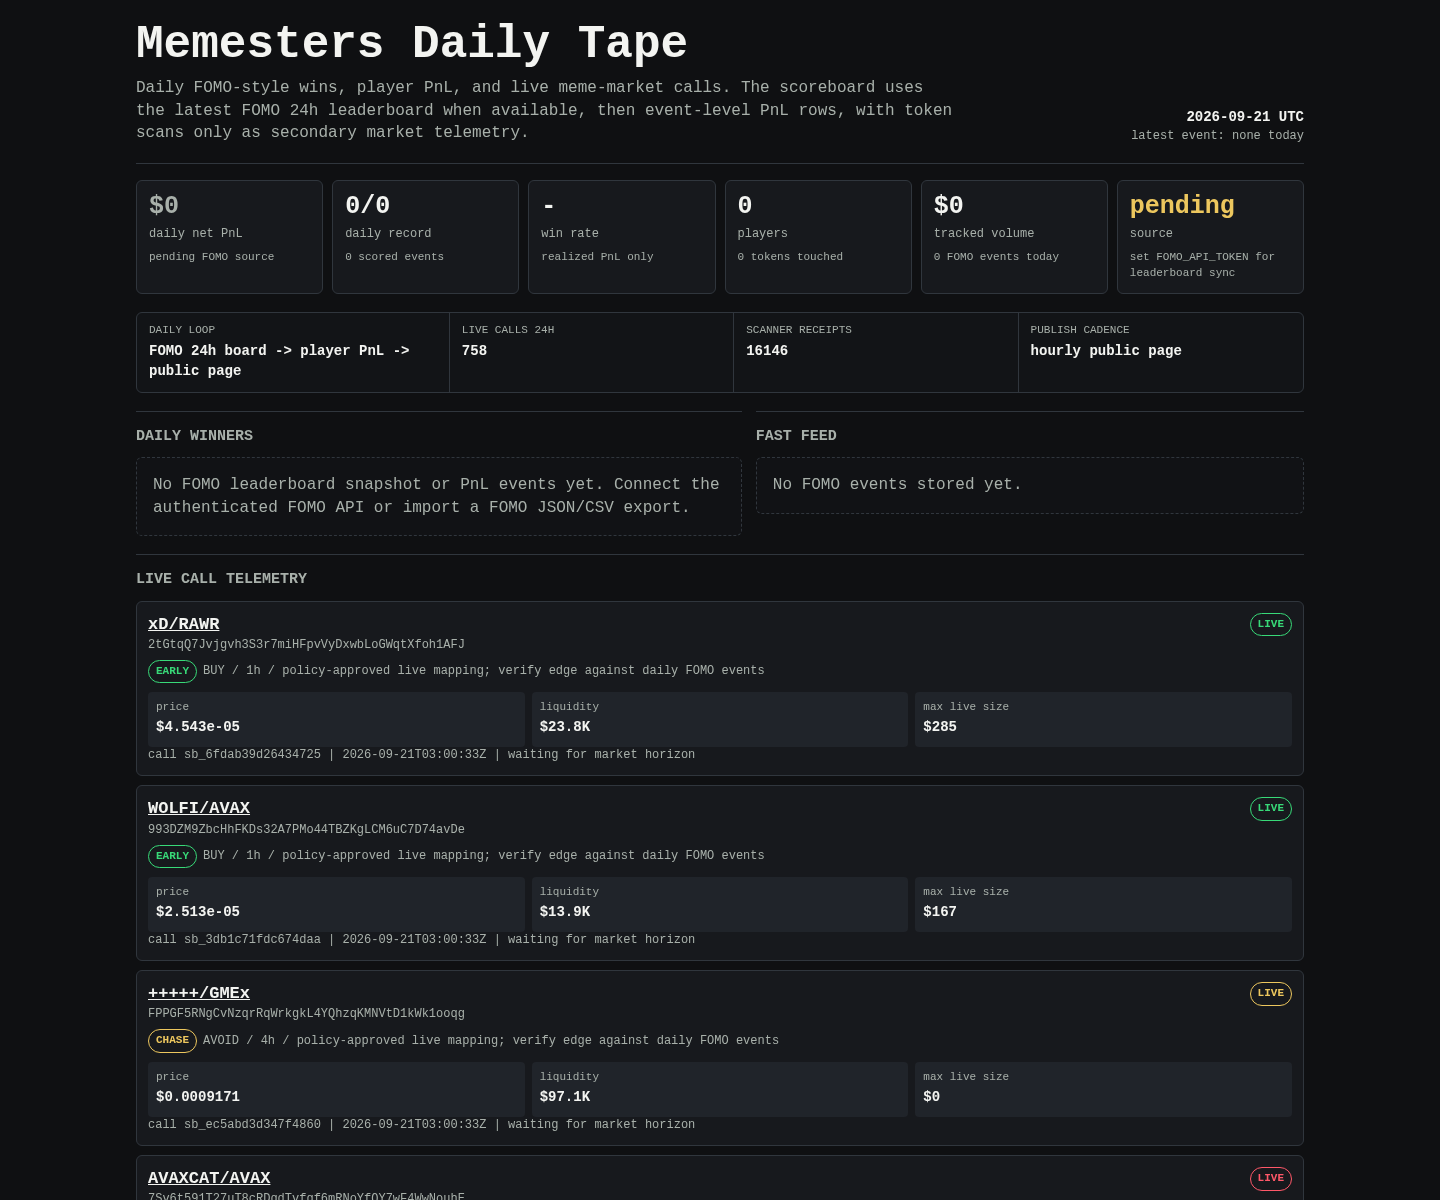
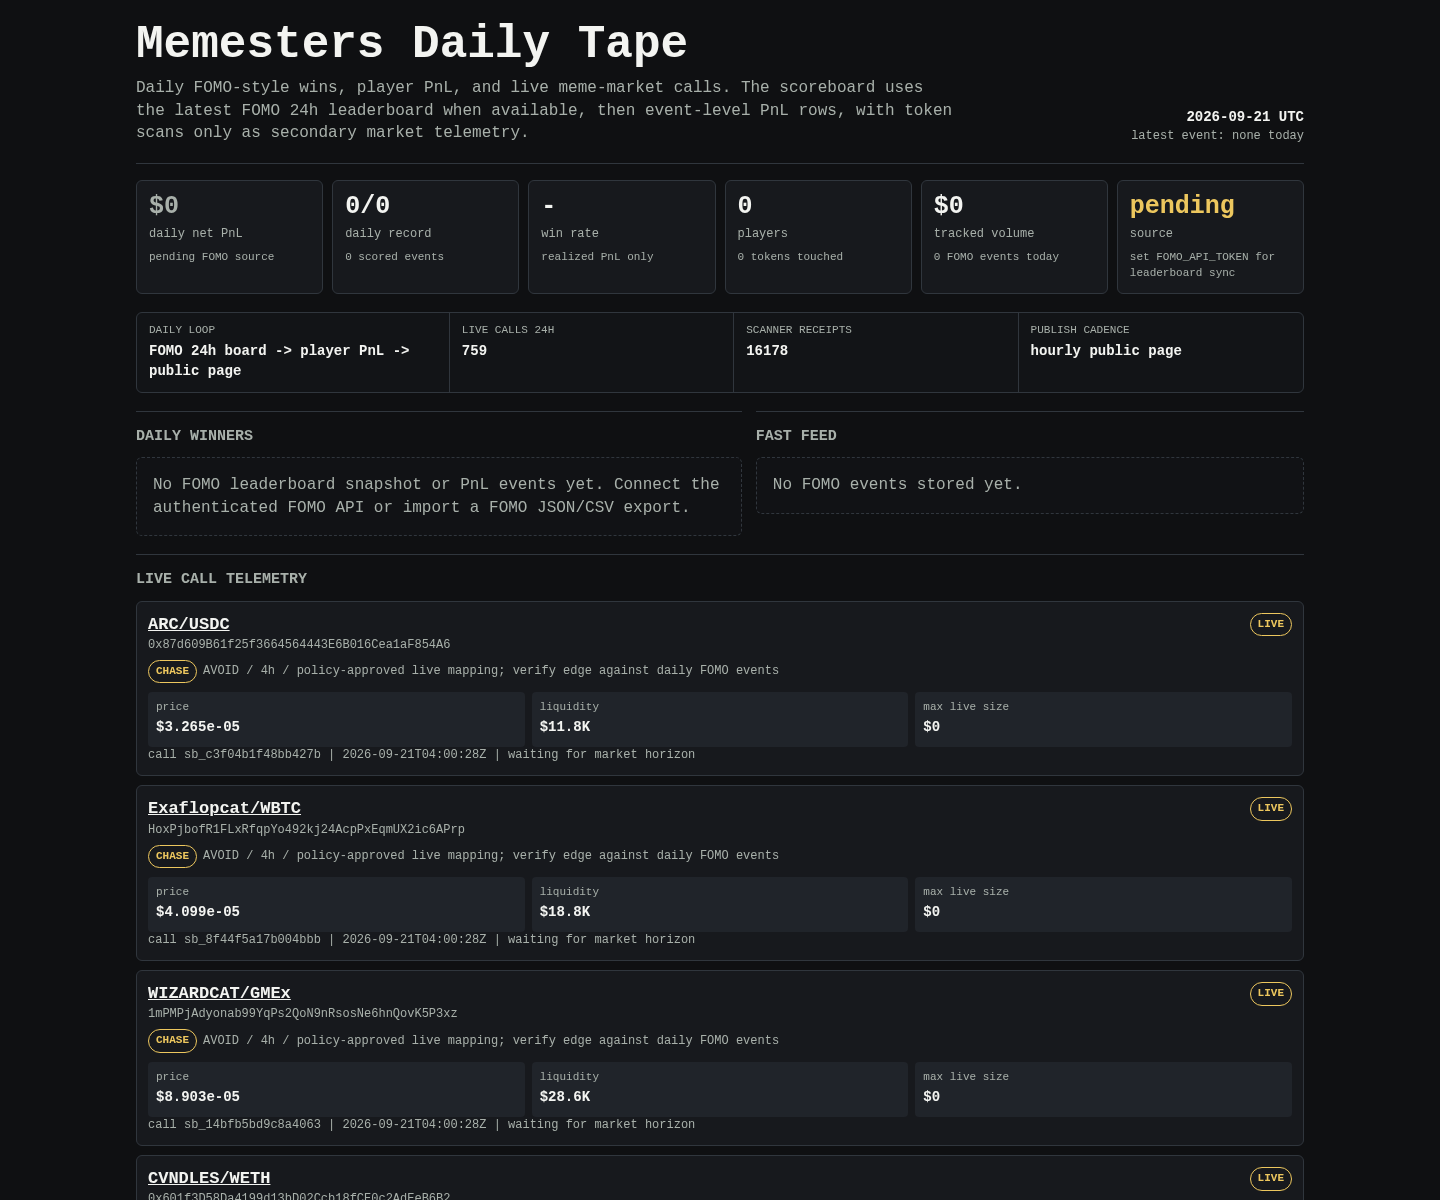
Update Memesters scoreboard

diff --git a/memesters/index.html b/memesters/index.html
@@ -149,8 +149,8 @@
 
     <div class="rail" aria-label="live operating loop">
       <div><span>daily loop</span><b>FOMO 24h board -> player PnL -> public page</b></div>
-      <div><span>live calls 24h</span><b>758</b></div>
-      <div><span>scanner receipts</span><b>16146</b></div>
+      <div><span>live calls 24h</span><b>759</b></div>
+      <div><span>scanner receipts</span><b>16178</b></div>
       <div><span>publish cadence</span><b>hourly public page</b></div>
     </div>
 
@@ -171,50 +171,8 @@
     <article class="receipt">
       <div class="receipt-head">
         <div>
-          <div class="pair"><a href="https://dexscreener.com/solana/hzhxogxxt3ny5hrhp38ryphc4xfnjvwv3mfppnsw6btv">xD/RAWR</a></div>
-          <div class="addr">2tGtqQ7Jvjgvh3S3r7miHFpvVyDxwbLoGWqtXfoh1AFJ</div>
-          <div class="addr policy-line">
-            <span class="badge early">EARLY</span>
-            <span>BUY / 1h / policy-approved live mapping; verify edge against daily FOMO events</span>
-          </div>
-        </div>
-        <span class="badge early">LIVE</span>
-      </div>
-      <div class="receipt-grid">
-        <div class="kv"><span>price</span><b>$4.543e-05</b></div>
-        <div class="kv"><span>liquidity</span><b>$23.8K</b></div>
-        <div class="kv"><span>max live size</span><b>$285</b></div>
-      </div>
-      <div class="outcomes">call sb_6fdab39d26434725 | 2026-09-21T03:00:33Z | waiting for market horizon</div>
-    </article>
-    
-
-    <article class="receipt">
-      <div class="receipt-head">
-        <div>
-          <div class="pair"><a href="https://dexscreener.com/solana/gybzzgzbyx9izhgx6gni3tftiyx4zvuh33edbbnkwzpk">WOLFI/AVAX</a></div>
-          <div class="addr">993DZM9ZbcHhFKDs32A7PMo44TBZKgLCM6uC7D74avDe</div>
-          <div class="addr policy-line">
-            <span class="badge early">EARLY</span>
-            <span>BUY / 1h / policy-approved live mapping; verify edge against daily FOMO events</span>
-          </div>
-        </div>
-        <span class="badge early">LIVE</span>
-      </div>
-      <div class="receipt-grid">
-        <div class="kv"><span>price</span><b>$2.513e-05</b></div>
-        <div class="kv"><span>liquidity</span><b>$13.9K</b></div>
-        <div class="kv"><span>max live size</span><b>$167</b></div>
-      </div>
-      <div class="outcomes">call sb_3db1c71fdc674daa | 2026-09-21T03:00:33Z | waiting for market horizon</div>
-    </article>
-    
-
-    <article class="receipt">
-      <div class="receipt-head">
-        <div>
-          <div class="pair"><a href="https://dexscreener.com/solana/cd2kmeqr7oqwzixmf1ajuevb8sew2x2ctt2s2gkf63zv">+++++/GMEx</a></div>
-          <div class="addr">FPPGF5RNgCvNzqrRqWrkgkL4YQhzqKMNVtD1kWk1ooqg</div>
+          <div class="pair"><a href="https://dexscreener.com/arc/0xdb7321af9cdcf06fc9d9771b3d446c3c7f46e462">ARC/USDC</a></div>
+          <div class="addr">0x87d609B61f25f3664564443E6B016Cea1aF854A6</div>
           <div class="addr policy-line">
             <span class="badge chase">CHASE</span>
             <span>AVOID / 4h / policy-approved live mapping; verify edge against daily FOMO events</span>
@@ -223,19 +181,145 @@
         <span class="badge chase">LIVE</span>
       </div>
       <div class="receipt-grid">
-        <div class="kv"><span>price</span><b>$0.0009171</b></div>
-        <div class="kv"><span>liquidity</span><b>$97.1K</b></div>
+        <div class="kv"><span>price</span><b>$3.265e-05</b></div>
+        <div class="kv"><span>liquidity</span><b>$11.8K</b></div>
         <div class="kv"><span>max live size</span><b>$0</b></div>
       </div>
-      <div class="outcomes">call sb_ec5abd3d347f4860 | 2026-09-21T03:00:33Z | waiting for market horizon</div>
+      <div class="outcomes">call sb_c3f04b1f48bb427b | 2026-09-21T04:00:28Z | waiting for market horizon</div>
     </article>
     
 
     <article class="receipt">
       <div class="receipt-head">
         <div>
-          <div class="pair"><a href="https://dexscreener.com/solana/cyvqyivxfp9wwrcb9lx5ne2bt7nek9tstajmwenvkr3x">AVAXCAT/AVAX</a></div>
-          <div class="addr">7Sv6t591T27uT8cRDqdTvfgf6mRNoYfQY7wF4WwNouhE</div>
+          <div class="pair"><a href="https://dexscreener.com/solana/3x783phswegmzbmztfhghian4eggmj4hacnylnmxutzj">Exaflopcat/WBTC</a></div>
+          <div class="addr">HoxPjbofR1FLxRfqpYo492kj24AcpPxEqmUX2ic6APrp</div>
+          <div class="addr policy-line">
+            <span class="badge chase">CHASE</span>
+            <span>AVOID / 4h / policy-approved live mapping; verify edge against daily FOMO events</span>
+          </div>
+        </div>
+        <span class="badge chase">LIVE</span>
+      </div>
+      <div class="receipt-grid">
+        <div class="kv"><span>price</span><b>$4.099e-05</b></div>
+        <div class="kv"><span>liquidity</span><b>$18.8K</b></div>
+        <div class="kv"><span>max live size</span><b>$0</b></div>
+      </div>
+      <div class="outcomes">call sb_8f44f5a17b004bbb | 2026-09-21T04:00:28Z | waiting for market horizon</div>
+    </article>
+    
+
+    <article class="receipt">
+      <div class="receipt-head">
+        <div>
+          <div class="pair"><a href="https://dexscreener.com/solana/gwppwkcur41oornbvqenzkpcvg4htuuhft5rndsfyhhd">WIZARDCAT/GMEx</a></div>
+          <div class="addr">1mPMPjAdyonab99YqPs2QoN9nRsosNe6hnQovK5P3xz</div>
+          <div class="addr policy-line">
+            <span class="badge chase">CHASE</span>
+            <span>AVOID / 4h / policy-approved live mapping; verify edge against daily FOMO events</span>
+          </div>
+        </div>
+        <span class="badge chase">LIVE</span>
+      </div>
+      <div class="receipt-grid">
+        <div class="kv"><span>price</span><b>$8.903e-05</b></div>
+        <div class="kv"><span>liquidity</span><b>$28.6K</b></div>
+        <div class="kv"><span>max live size</span><b>$0</b></div>
+      </div>
+      <div class="outcomes">call sb_14bfb5bd9c8a4063 | 2026-09-21T04:00:28Z | waiting for market horizon</div>
+    </article>
+    
+
+    <article class="receipt">
+      <div class="receipt-head">
+        <div>
+          <div class="pair"><a href="https://dexscreener.com/robinhood/0x7595a909646c4831dc2198ad701218817e497b5a">CVNDLES/WETH</a></div>
+          <div class="addr">0x601f3D58Da4199d13bD02Ccb18fCE0c2AdEeB6B2</div>
+          <div class="addr policy-line">
+            <span class="badge chase">CHASE</span>
+            <span>AVOID / 4h / policy-approved live mapping; verify edge against daily FOMO events</span>
+          </div>
+        </div>
+        <span class="badge chase">LIVE</span>
+      </div>
+      <div class="receipt-grid">
+        <div class="kv"><span>price</span><b>$7.863e-06</b></div>
+        <div class="kv"><span>liquidity</span><b>$4.4K</b></div>
+        <div class="kv"><span>max live size</span><b>$0</b></div>
+      </div>
+      <div class="outcomes">call sb_bef2317b7e32477b | 2026-09-21T04:00:28Z | waiting for market horizon</div>
+    </article>
+    
+
+    <article class="receipt">
+      <div class="receipt-head">
+        <div>
+          <div class="pair"><a href="https://dexscreener.com/bsc/0x4f620c3abbaf7a7c23170e2dadd3cb206a5f7345">MELT/WBNB</a></div>
+          <div class="addr">0xC6Da3C912DD09577e6609dC90a44CDc1a99c7777</div>
+          <div class="addr policy-line">
+            <span class="badge early">EARLY</span>
+            <span>BUY / 1h / policy-approved live mapping; verify edge against daily FOMO events</span>
+          </div>
+        </div>
+        <span class="badge early">LIVE</span>
+      </div>
+      <div class="receipt-grid">
+        <div class="kv"><span>price</span><b>$7.009e-06</b></div>
+        <div class="kv"><span>liquidity</span><b>$12.2K</b></div>
+        <div class="kv"><span>max live size</span><b>$77</b></div>
+      </div>
+      <div class="outcomes">call sb_a7b382b9b7cf4d6c | 2026-09-21T04:00:28Z | waiting for market horizon</div>
+    </article>
+    
+
+    <article class="receipt">
+      <div class="receipt-head">
+        <div>
+          <div class="pair"><a href="https://dexscreener.com/solana/bew6ordmhs55yspyr7rzn73qruamykp1sxl7unbqzguj">ZIRON/ZEC</a></div>
+          <div class="addr">B8WvjPmz1wJ9xPRKEkyWHFzPZoaqkKWCytgtFjhTpump</div>
+          <div class="addr policy-line">
+            <span class="badge chase">CHASE</span>
+            <span>AVOID / 4h / policy-approved live mapping; verify edge against daily FOMO events</span>
+          </div>
+        </div>
+        <span class="badge chase">LIVE</span>
+      </div>
+      <div class="receipt-grid">
+        <div class="kv"><span>price</span><b>$0.0002329</b></div>
+        <div class="kv"><span>liquidity</span><b>$52.0K</b></div>
+        <div class="kv"><span>max live size</span><b>$0</b></div>
+      </div>
+      <div class="outcomes">call sb_f0d06ec7684b4052 | 2026-09-21T04:00:28Z | waiting for market horizon</div>
+    </article>
+    
+
+    <article class="receipt">
+      <div class="receipt-head">
+        <div>
+          <div class="pair"><a href="https://dexscreener.com/robinhood/0x8411ea13a08bbe0dcaf65982bb65c70b8ef3911e8ea9cc6f6f084a6bc04d99d2">+++++/WETH</a></div>
+          <div class="addr">0x674fFB50DBa9eE1505FF319FC7817731cE79137C</div>
+          <div class="addr policy-line">
+            <span class="badge chase">CHASE</span>
+            <span>AVOID / 4h / policy-approved live mapping; verify edge against daily FOMO events</span>
+          </div>
+        </div>
+        <span class="badge chase">LIVE</span>
+      </div>
+      <div class="receipt-grid">
+        <div class="kv"><span>price</span><b>$1.533e-05</b></div>
+        <div class="kv"><span>liquidity</span><b>$14.1K</b></div>
+        <div class="kv"><span>max live size</span><b>$0</b></div>
+      </div>
+      <div class="outcomes">call sb_34480402b3a1429e | 2026-09-21T04:00:28Z | waiting for market horizon</div>
+    </article>
+    
+
+    <article class="receipt">
+      <div class="receipt-head">
+        <div>
+          <div class="pair"><a href="https://dexscreener.com/solana/7p2wrg1pb5wondr7c8asv6hjfe4jez7t7xtzkf79oe4o">Buck/GMEx</a></div>
+          <div class="addr">2SgRLprSBdkLrnRiqaCDw5avrRyYbrvZwyNbYgd3oAJm</div>
           <div class="addr policy-line">
             <span class="badge rug-risk">RUG RISK</span>
             <span>AVOID / 4h / policy-approved live mapping; verify edge against daily FOMO events</span>
@@ -244,103 +328,19 @@
         <span class="badge rug-risk">LIVE</span>
       </div>
       <div class="receipt-grid">
-        <div class="kv"><span>price</span><b>$3.372e-05</b></div>
-        <div class="kv"><span>liquidity</span><b>$15.9K</b></div>
+        <div class="kv"><span>price</span><b>$3.363e-05</b></div>
+        <div class="kv"><span>liquidity</span><b>$17.1K</b></div>
         <div class="kv"><span>max live size</span><b>$0</b></div>
       </div>
-      <div class="outcomes">call sb_e7ace377deaa454a | 2026-09-21T03:00:32Z | waiting for market horizon</div>
+      <div class="outcomes">call sb_659865620ca54152 | 2026-09-21T04:00:28Z | waiting for market horizon</div>
     </article>
     
 
     <article class="receipt">
       <div class="receipt-head">
         <div>
-          <div class="pair"><a href="https://dexscreener.com/robinhood/0x5a76c573afe9e546ccda3a24bc1b1a0129f8492cd3215ce3b30cc20c11f8236a">KVRA/WETH</a></div>
-          <div class="addr">0xD81057fDf94eD006339Ad33118b9c202c7E0B874</div>
-          <div class="addr policy-line">
-            <span class="badge chase">CHASE</span>
-            <span>AVOID / 4h / policy-approved live mapping; verify edge against daily FOMO events</span>
-          </div>
-        </div>
-        <span class="badge chase">LIVE</span>
-      </div>
-      <div class="receipt-grid">
-        <div class="kv"><span>price</span><b>$1.137e-06</b></div>
-        <div class="kv"><span>liquidity</span><b>$86.5K</b></div>
-        <div class="kv"><span>max live size</span><b>$0</b></div>
-      </div>
-      <div class="outcomes">call sb_25124792d18f4d10 | 2026-09-21T03:00:32Z | waiting for market horizon</div>
-    </article>
-    
-
-    <article class="receipt">
-      <div class="receipt-head">
-        <div>
-          <div class="pair"><a href="https://dexscreener.com/robinhood/0x71c3e919f41ea213af79b1cc187a468d14b94a69ef4ad91482b819d3b33b1ef8">SI/WETH</a></div>
-          <div class="addr">0xe5395Dc21Ea46B5E16209c4Deaba97E40f781f1C</div>
-          <div class="addr policy-line">
-            <span class="badge chase">CHASE</span>
-            <span>AVOID / 4h / policy-approved live mapping; verify edge against daily FOMO events</span>
-          </div>
-        </div>
-        <span class="badge chase">LIVE</span>
-      </div>
-      <div class="receipt-grid">
-        <div class="kv"><span>price</span><b>$3.145e-05</b></div>
-        <div class="kv"><span>liquidity</span><b>$23.7K</b></div>
-        <div class="kv"><span>max live size</span><b>$0</b></div>
-      </div>
-      <div class="outcomes">call sb_0f4d875bff614c21 | 2026-09-21T03:00:32Z | waiting for market horizon</div>
-    </article>
-    
-
-    <article class="receipt">
-      <div class="receipt-head">
-        <div>
-          <div class="pair"><a href="https://dexscreener.com/hyperevm/0xd75c62d72c268a15e5b7b11e711e89cc5e718a13">HYPOOR/PURR</a></div>
-          <div class="addr">0xa211E2351f92d32b42463a4267692f0f7d935807</div>
-          <div class="addr policy-line">
-            <span class="badge chase">CHASE</span>
-            <span>AVOID / 4h / policy-approved live mapping; verify edge against daily FOMO events</span>
-          </div>
-        </div>
-        <span class="badge chase">LIVE</span>
-      </div>
-      <div class="receipt-grid">
-        <div class="kv"><span>price</span><b>$2.018e-05</b></div>
-        <div class="kv"><span>liquidity</span><b>$16.0K</b></div>
-        <div class="kv"><span>max live size</span><b>$0</b></div>
-      </div>
-      <div class="outcomes">call sb_0400787f9bb64a35 | 2026-09-21T03:00:32Z | waiting for market horizon</div>
-    </article>
-    
-
-    <article class="receipt">
-      <div class="receipt-head">
-        <div>
-          <div class="pair"><a href="https://dexscreener.com/solana/3bmddmrubdzypckcapm4dfbrvc4p5mf9jvaagvnejbjx">INDEXX/SOL</a></div>
-          <div class="addr">9rkj6uQmRCRi75gcswZ6si1H27fFyqxDVpzbuiREpump</div>
-          <div class="addr policy-line">
-            <span class="badge early">EARLY</span>
-            <span>BUY / 1h / policy-approved live mapping; verify edge against daily FOMO events</span>
-          </div>
-        </div>
-        <span class="badge early">LIVE</span>
-      </div>
-      <div class="receipt-grid">
-        <div class="kv"><span>price</span><b>$3.79e-05</b></div>
-        <div class="kv"><span>liquidity</span><b>$15.3K</b></div>
-        <div class="kv"><span>max live size</span><b>$172</b></div>
-      </div>
-      <div class="outcomes">call sb_c1f7ddbf6b594c4a | 2026-09-21T03:00:32Z | waiting for market horizon</div>
-    </article>
-    
-
-    <article class="receipt">
-      <div class="receipt-head">
-        <div>
-          <div class="pair"><a href="https://dexscreener.com/solana/137mpnvx7qrpax7mc5mpvja3fv566vhtk27gxpak7snd">AvaxPump/SOL</a></div>
-          <div class="addr">3DdUyZcdCSRZQRUHLPGta61onSzCSe7BQ7NSmf2Tpump</div>
+          <div class="pair"><a href="https://dexscreener.com/solana/8q9wckb9azvidgty6g5exdjgck5cdsyoeyfp5bzsb4rz">5/GMEx</a></div>
+          <div class="addr">AH6Eusy2aJbcmAZsXQcdeoyA2wurEibqFLyD7h2FMTtg</div>
           <div class="addr policy-line">
             <span class="badge rug-risk">RUG RISK</span>
             <span>AVOID / 4h / policy-approved live mapping; verify edge against daily FOMO events</span>
@@ -349,32 +349,32 @@
         <span class="badge rug-risk">LIVE</span>
       </div>
       <div class="receipt-grid">
-        <div class="kv"><span>price</span><b>$2.074e-06</b></div>
-        <div class="kv"><span>liquidity</span><b>$2.1K</b></div>
+        <div class="kv"><span>price</span><b>$7.909e-06</b></div>
+        <div class="kv"><span>liquidity</span><b>$8.1K</b></div>
         <div class="kv"><span>max live size</span><b>$0</b></div>
       </div>
-      <div class="outcomes">call sb_35c0718030cf443b | 2026-09-21T02:45:24Z | waiting for market horizon</div>
+      <div class="outcomes">call sb_426f05c0f7434e49 | 2026-09-21T03:45:27Z | waiting for market horizon</div>
     </article>
     
 
     <article class="receipt">
       <div class="receipt-head">
         <div>
-          <div class="pair"><a href="https://dexscreener.com/solana/88wc5rs4951zjebdf5by1tz1erzn2xwxbjwbewhc6q1n">chillpill/SOL</a></div>
-          <div class="addr">AWjZP3gPqXFJQrmuNL5afyPV69h4jy35pDAWAmvkbCgj</div>
+          <div class="pair"><a href="https://dexscreener.com/solana/8z2ciclvurpbdg82d6emn5iug2x2qmknewuwvrzgu1kp">Gamestonk/GMEx</a></div>
+          <div class="addr">B5frRtMDkN2pirLEDGTv3tu5xkn9QTxMHbwJtJgkm4LR</div>
           <div class="addr policy-line">
-            <span class="badge chase">CHASE</span>
+            <span class="badge rug-risk">RUG RISK</span>
             <span>AVOID / 4h / policy-approved live mapping; verify edge against daily FOMO events</span>
           </div>
         </div>
-        <span class="badge chase">LIVE</span>
+        <span class="badge rug-risk">LIVE</span>
       </div>
       <div class="receipt-grid">
-        <div class="kv"><span>price</span><b>$6.797e-06</b></div>
-        <div class="kv"><span>liquidity</span><b>$5.2K</b></div>
+        <div class="kv"><span>price</span><b>$6.308e-06</b></div>
+        <div class="kv"><span>liquidity</span><b>$7.1K</b></div>
         <div class="kv"><span>max live size</span><b>$0</b></div>
       </div>
-      <div class="outcomes">call sb_ab2933dd9647422f | 2026-09-21T02:45:24Z | waiting for market horizon</div>
+      <div class="outcomes">call sb_9c5f37c325bf42c2 | 2026-09-21T03:45:26Z | waiting for market horizon</div>
     </article>
     
     </section>
